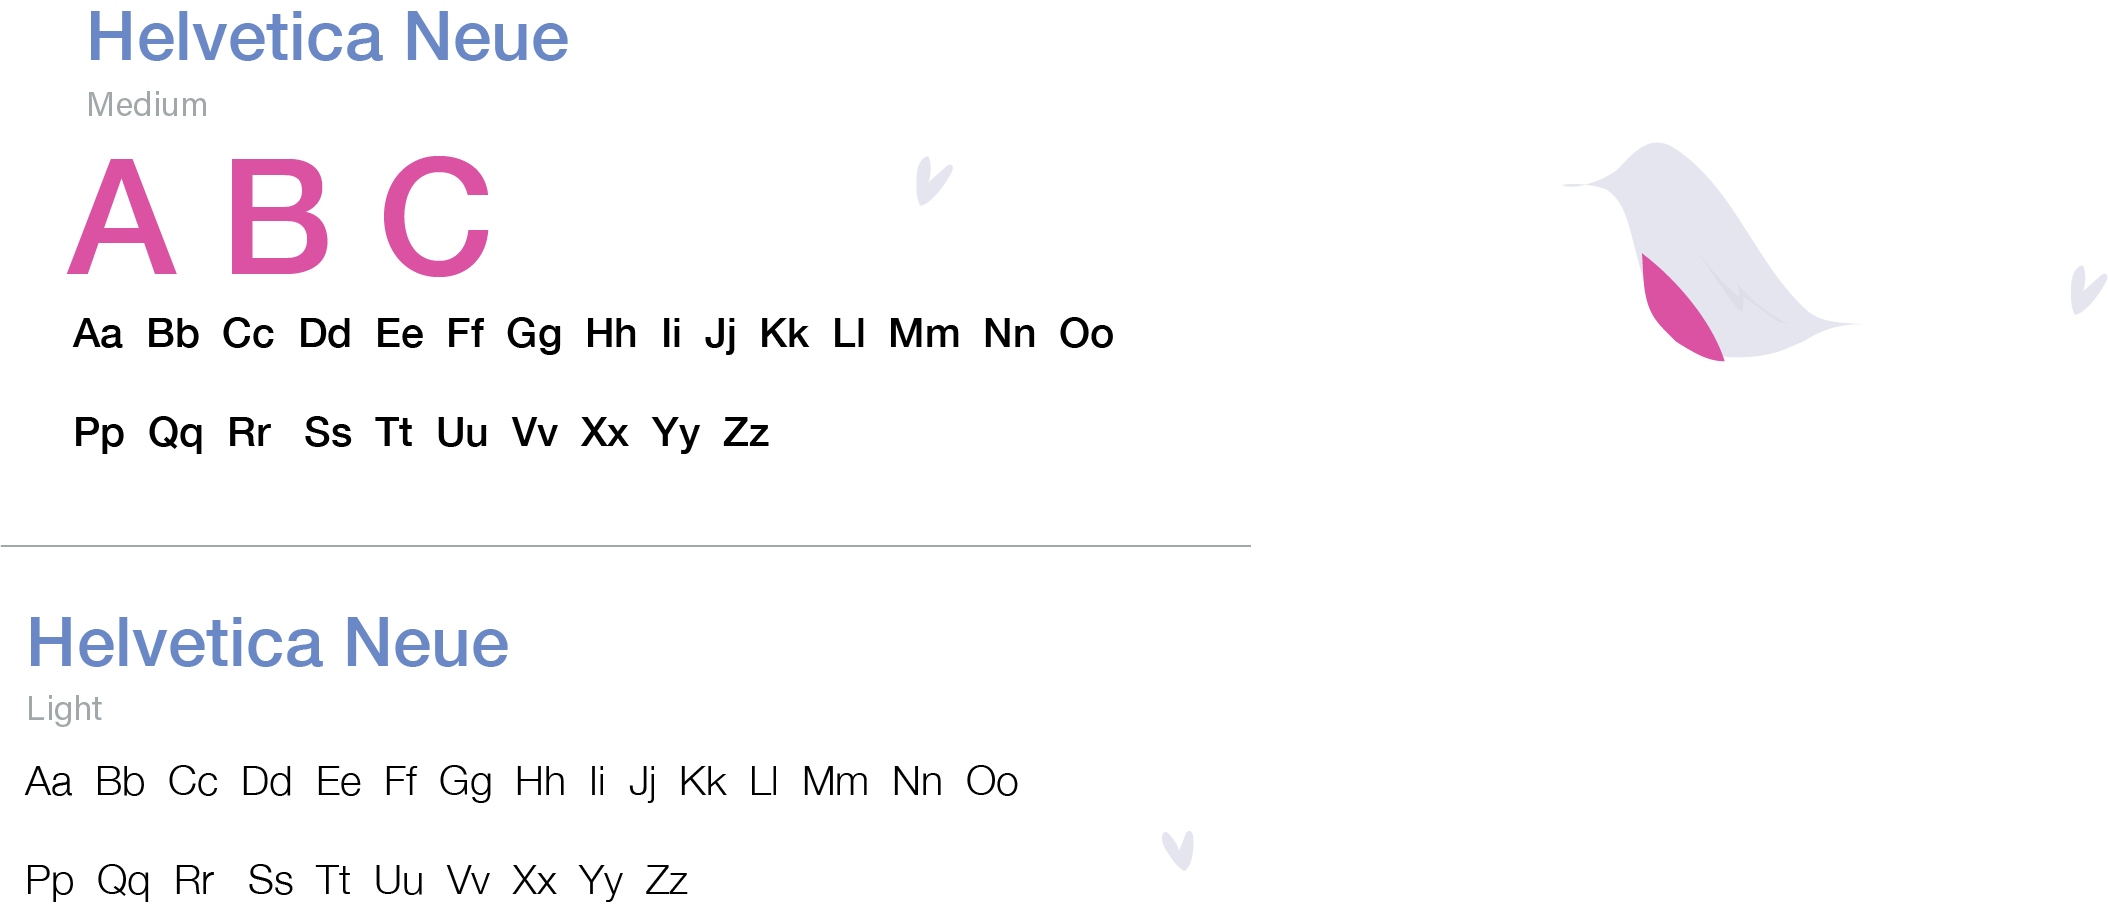
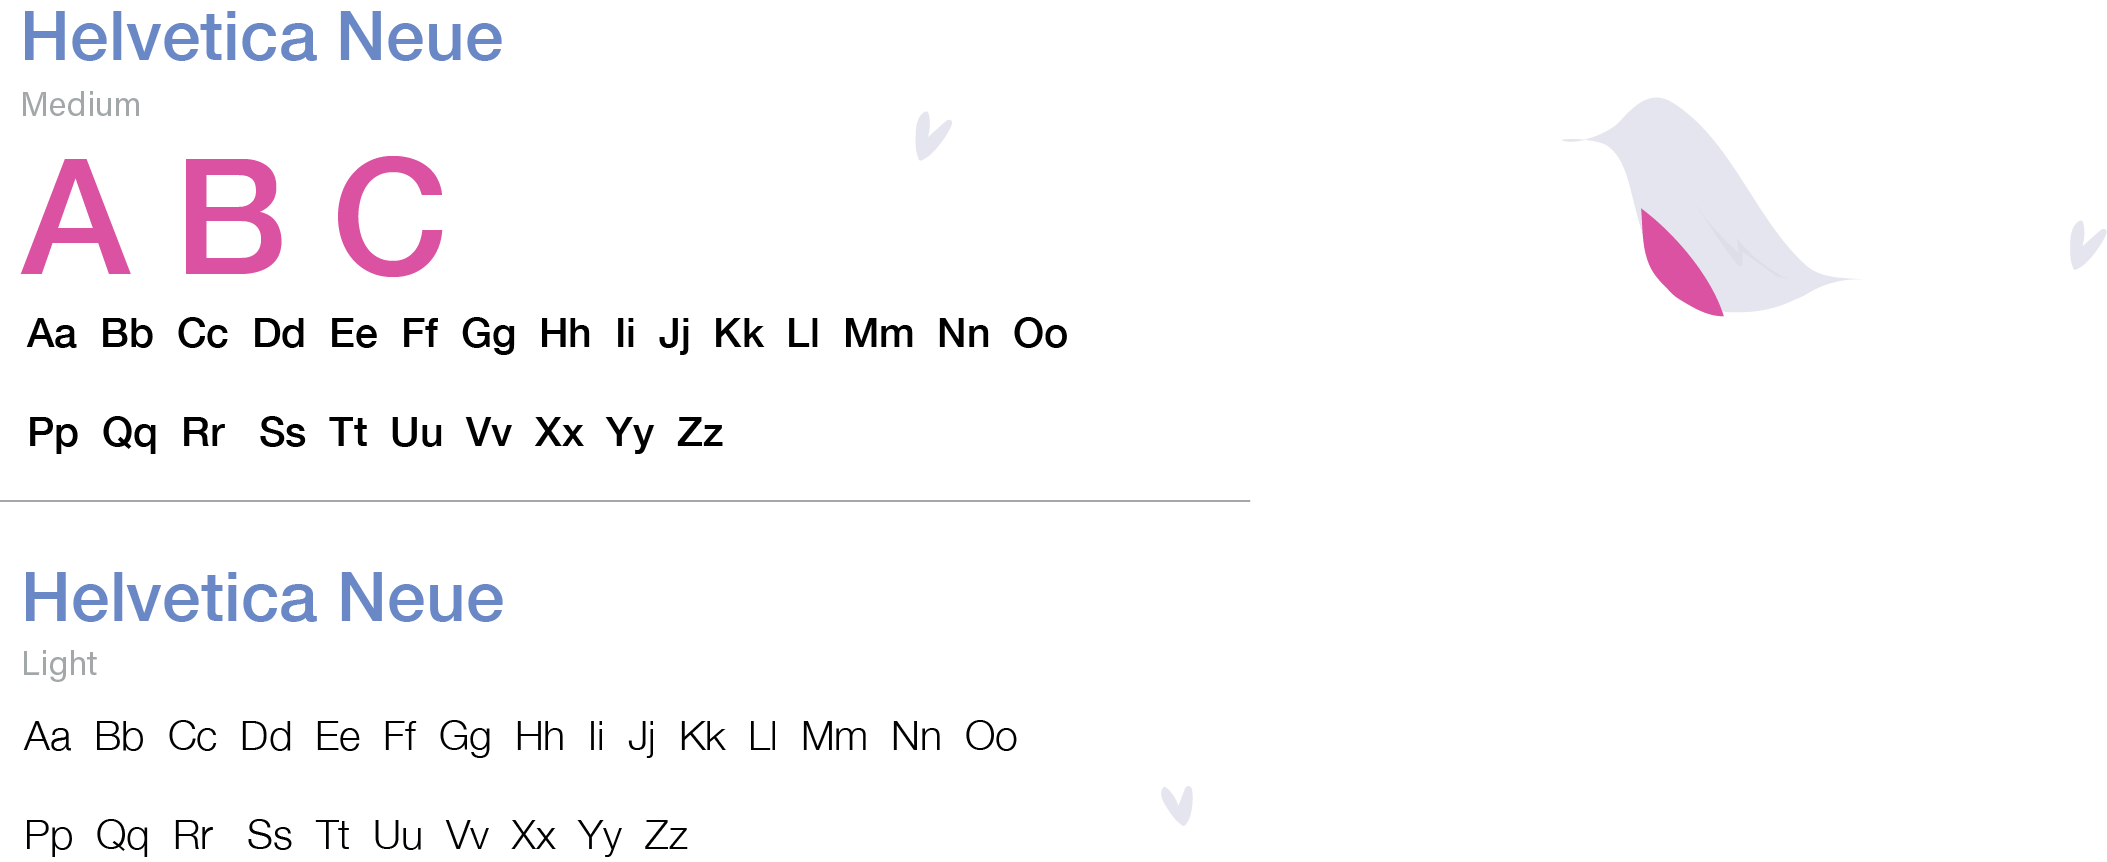
fixes

diff --git a/build/css/application-1.1.css b/build/css/application-1.1.css
@@ -234,10 +234,13 @@ h1, h2, h3, h4, h5 {
 
 .ocado-page .feature-row h2, .ocado-page .header-row h2 {
   text-transform: capitalize;
-  font-family: 'Signika', serif;
+  font-family: 'Lora', serif;
   font-weight: 700;
   font-size: 40px;
   color: #DB52A3; }
+
+.lnt-typography.feature-row h2 {
+  margin-top: 0; }
 
 .header {
   min-height: 660px;
@@ -553,6 +556,9 @@ h1, h2, h3, h4, h5 {
   .ocado-overlapping-text-col.three {
     top: 100px;
     left: 30px; }
+
+.lnt-typography.feature-row > div {
+  align-self: flex-start; }
 
 .row.footer {
   height: 200px;
@@ -976,14 +982,9 @@ h1, h2, h3, h4, h5 {
     max-width: 130%;
     width: 130%; }
 
-@media (max-width: 767px) {
-  .phone-image {
-    max-width: 300px;
-    margin-bottom: 30px; }
-  .what-i-do-wrap h3 {
-    font-size: 20px; }
-  .mw-feature-image-row img {
-    margin-top: -100px; } }
+.lnt-bg .header-row img {
+  max-width: 300px;
+  margin: 0 auto; }
 
 .task-description {
   padding-top: 50px;
@@ -1128,7 +1129,10 @@ h1, h2, h3, h4, h5 {
     .ocado-page .feature-row > div {
       margin-top: 30px;
       margin-left: 0 !important;
-      margin-right: 0 !important; } }
+      margin-right: 0 !important; }
+  .lnt-bg .header-row {
+    display: block;
+    text-align: center; } }
 
 @media (max-width: 1040px) {
   .home .header {

diff --git a/sass/base/_headings.scss b/sass/base/_headings.scss
@@ -48,9 +48,15 @@ h1, h2, h3, h4, h5 {
 .ocado-page .feature-row, .ocado-page .header-row {
   h2 {
     text-transform: capitalize;
-    font-family: 'Signika', serif;
+    font-family: 'Lora', serif;
     font-weight: 700;
     font-size: 40px;
     color: #DB52A3;
+  }
+}
+
+.lnt-typography.feature-row {
+  h2{
+    margin-top: 0;
   }
 }

diff --git a/sass/modules/_page-components.scss b/sass/modules/_page-components.scss
@@ -256,21 +256,9 @@
   }
 }
 
-@media(max-width: 767px) {
-  .phone-image {
-    max-width: 300px;
-    margin-bottom: 30px;
-  }
-
-  .what-i-do-wrap {
-    h3 {
-      font-size: 20px;
-    }
-  }
-
-  .mw-feature-image-row img {
-    margin-top: -100px;
-  }
+.lnt-bg .header-row img {
+  max-width: 300px;
+  margin: 0 auto;
 }
 
 

diff --git a/sass/state/_media-queries.scss b/sass/state/_media-queries.scss
@@ -98,6 +98,11 @@
       margin-right: 0 !important;
     }
   }
+
+  .lnt-bg .header-row {
+    display: block;
+    text-align: center;
+  }
 }
 
 @media (max-width: 1040px){

diff --git a/sass/layout/_page.scss b/sass/layout/_page.scss
@@ -295,5 +295,11 @@
   }
 }
 
+.lnt-typography.feature-row {
+  > div {
+    align-self: flex-start;
+  }
+}
+
 
 

diff --git a/ocado-project.php b/ocado-project.php
@@ -72,7 +72,7 @@
             as they prepare to put the app into alpha testing in the very near future.
             </p>
         </div>
-        <div class="col-md-10 col-md-offset-1">
+        <div class="col-md-12">
           <img class="img-responsive" src="img/ocado-ui-one.jpg" />
         </div>
       </div>
@@ -85,7 +85,7 @@
             as they prepare to put the app into alpha testing in the very near future.
             </p>
         </div>
-        <div class="col-md-10 col-md-offset-1">
+        <div class="col-md-12">
           <img class="img-responsive" src="img/ocado-ui-two.jpg" />
         </div>
       </div>

diff --git a/header.php b/header.php
@@ -17,7 +17,7 @@
     <link rel="stylesheet" href="css/normalize.css">
     <link rel="stylesheet" href="build/css/application-1.1.css">
     <script src="js/vendor/modernizr-2.8.3.min.js"></script>
-    <link href="https://fonts.googleapis.com/css?family=Lato|Open+Sans:300i,400|Cinzel:400,700|Arvo|Signika" rel="stylesheet">
+    <link href="https://fonts.googleapis.com/css?family=Lato|Open+Sans:300i,400|Cinzel:400,700|Arvo|Lora" rel="stylesheet">
 </head>
 <body onunload="" class="<?php
          if(isset($body)){ echo $body;}else{ echo'not-home';} ?>">

diff --git a/mw.php b/mw.php
@@ -20,7 +20,7 @@
       </div>
       <div class="row feature-row mw-feature-image-row">
         <div class="col-md-10 col-md-offset-1">
-          <img class="img-responsive" src="img/mw-typography-and-cards.png" />
+          <img class="img-responsive" src="img/mw-typograpy-and-cards-final.png" />
         </div>
       </div>
       <div class="row feature-row py-0">

diff --git a/lnt.php b/lnt.php
@@ -24,7 +24,7 @@
            <img class="img-responsive screenshot" src="img/lnt-header-image.jpg" />
         </div>    
     </div>    
-      <div class="row feature-row">
+      <div class="row feature-row lnt-typography">
         <div class="col-md-6 col-sm-6 col-md-offset-1">
           <img class="img-responsive" src="img/lnt-typography.png" />
         </div>

diff --git a/bodhan.php b/bodhan.php
@@ -1,5 +1,5 @@
-<?php $title = 'Bodhan Consulting | Logo Design';
-      $spinnerLogo = 'img/bodhan-logo-xs.png';
+<?php $title = 'Bodhan Consultants | Logo Design';
+      $spinnerLogo = 'img/bodhan-spinner-logo.jpg';
       $body = 'not-home bodhan-bg'
 ?>
 <?php include 'header.php'; ?>

diff --git a/ad.php b/ad.php
@@ -1,5 +1,5 @@
 <?php $title = 'Anthony Devonish | Logo Design';
-      $spinnerLogo = 'img/ad-logo.png';
+      $spinnerLogo = 'img/ad-tile.png';
       $body = 'not-home ad-page'
 ?>
 <?php include 'header.php'; ?>

diff --git a/index.php b/index.php
@@ -1,4 +1,4 @@
-<?php $title = 'Digital Designer from London';
+<?php $title = 'Designer from London';
       $body = 'home';
       $spinnerLogo = 'img/lt-new-icon.png';
 ?>
